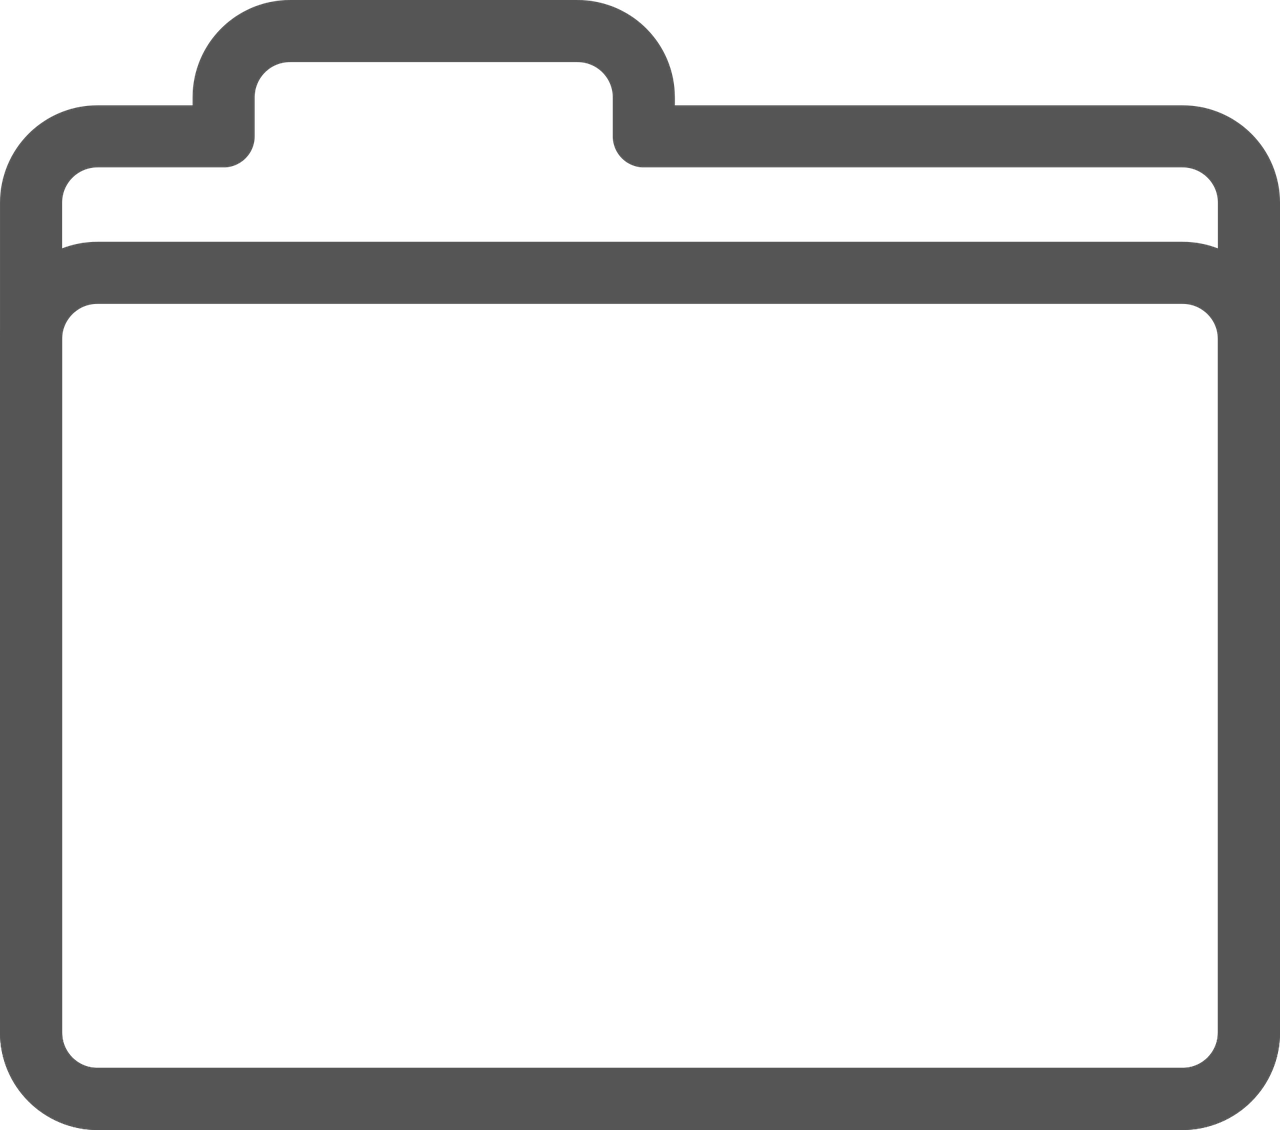
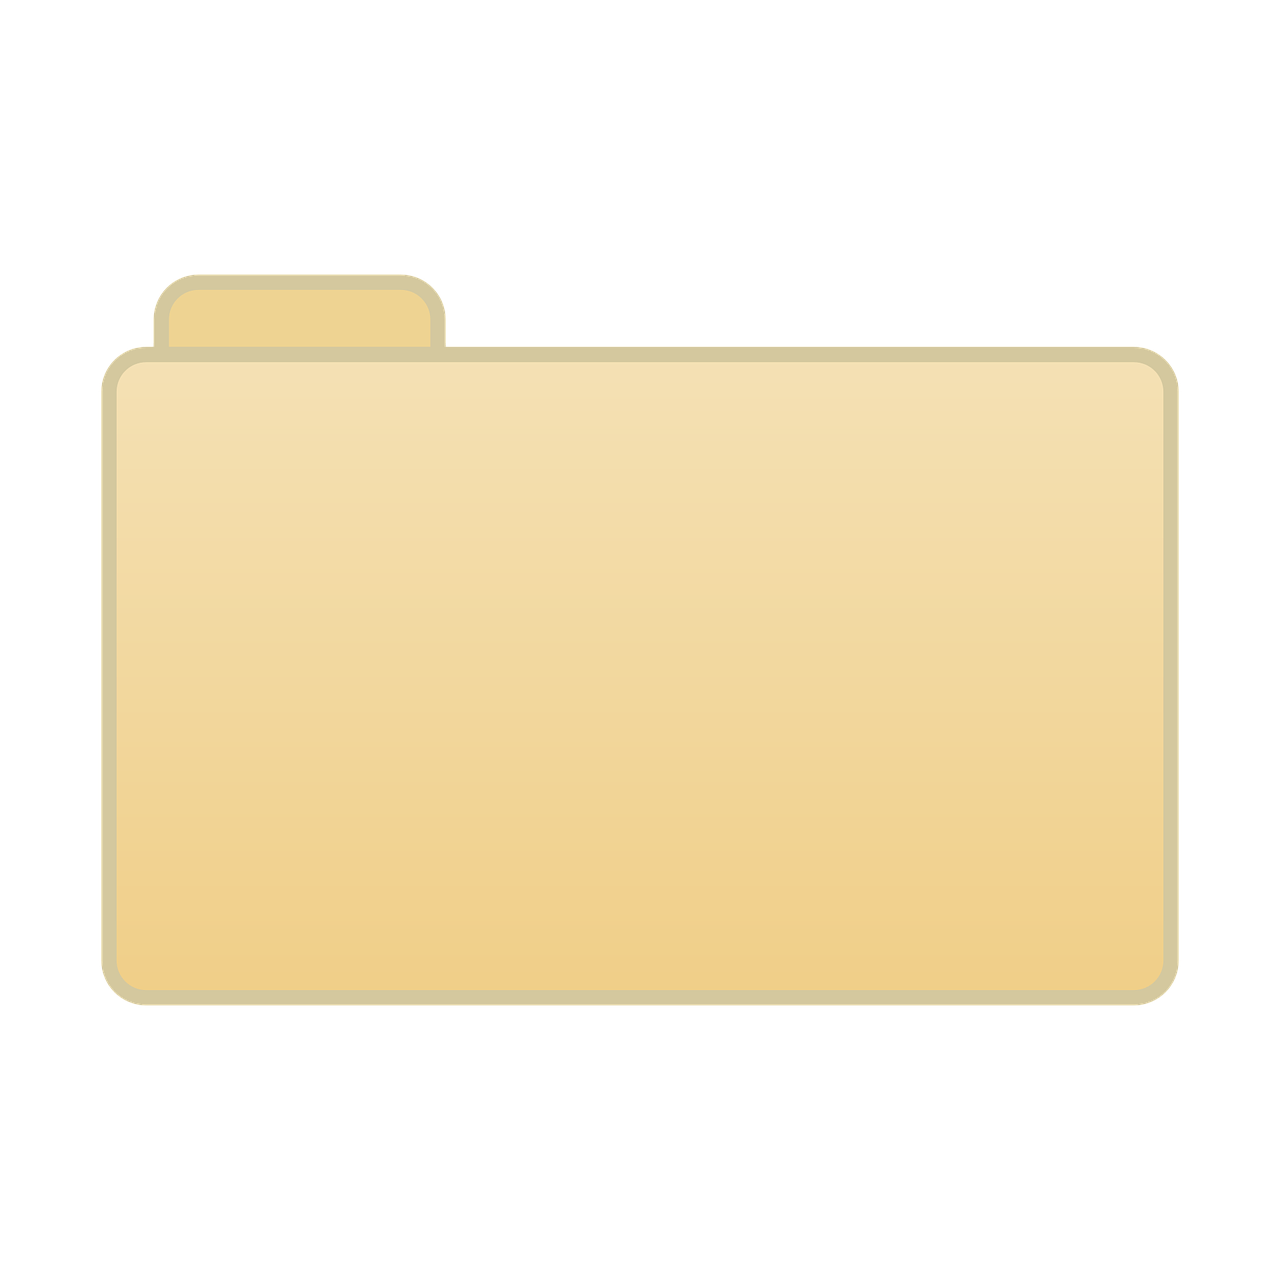
Added folder crum path in media create view and updateded style + update folder image

diff --git a/pub/assets/css/media.css b/pub/assets/css/media.css
@@ -41,14 +41,13 @@
     margin-top: 10px;
 }
 .filesContainer {
-    height: 75vh;
+    height: 80vh;
     overflow-y: auto;
     background: #fff;
-    padding: 20px;
+    padding: 10px;
     border: 1px solid #c6c6c6;
-    margin-bottom: 25px;
+    margin: 50px;
     position: relative;
-    margin-top: 50px;
 }
 .fileContainer {
     list-style: none;
@@ -76,14 +75,20 @@
     left: 50%;
     transform: translate(-50%, -50%);
     border-radius: 3px;
-    font-size: 18px;
+    font-size: 14px;
     color: #fff;
+    text-transform: uppercase;
+    text-overflow: ellipsis;
+    white-space: nowrap;
+    overflow: hidden;
+    width: 100%;
+    text-align: center;
 }
 .fileContainer .file {
-    width: 150px;
+    width: 100px;
     object-fit: cover;
     border: 1px solid #bdbdbd;
-    height: 150px;
+    height: 100px;
 }
 .fileContainer.show {
     position: absolute;
@@ -110,18 +115,29 @@
     width: 75% !important;
     height: 75% !important;
 }
+.fileContainer.folder:hover .folderText {
+    color: #004297;
+}
+.fileContainer.folder .folderText:hover {
+    color: #004297;
+}
 .fileContainer.folder img {
     object-fit: unset;
+    border: none;
 }
 .fileContainer.folder .folderText {
     position: absolute;
-    top: 50%;
-    left: 50%;
-    transform: translate(-50%, -50%);
-    color: #333;
+    bottom: 0;
+    left: 0;
+    color: #4f80c8;
     font-size: 14px;
-    text-transform: uppercase;
+    text-overflow: ellipsis;
+    white-space: nowrap;
+    overflow: hidden;
+    width: 100%;
+    text-align: center;
 }
+
 .fileInfoContainer {
     position: absolute;
     left: 50px;
@@ -169,16 +185,25 @@
     width: 100%;
     position: relative;
 }
+.crumPath {
+    position: absolute;
+    left: 50px;
+    top: 20px;
+}
+.folderPath {
+    color: #333;
+}
+.folderPath:hover {
+    color: #3d6eb5;
+}
+.separator {
+    margin: 0 10px;
+}
 #ranger {
     position: absolute;
     left: 50%;
-    top: -33px;
+    top: 15px;
     transform: translateX(-50%);
-}
-.folderBackText {
-    position: absolute;
-    top: 70px;
-    left: 66px;
 }
 /*
     Sidebar

diff --git a/pub/assets/css/style.css b/pub/assets/css/style.css
@@ -130,36 +130,47 @@ h3 {
 }
 .col12 {
     flex: 100%;
+    position: relative;
 }
 .col11 {
     flex: 95%;
+    position: relative;
 }
 .col10 {
     flex: 83.34%;
+    position: relative;
 }
 .col9 {
     flex: 75%;
+    position: relative;
 }
 .col8 {
     flex: 66.66%;
+    position: relative;
 }
 .col6 {
     flex: 50%;
+    position: relative;
 }
 .col4 {
     flex: 33.33%;
+    position: relative;
 }
 .col3 {
     flex: 25%;
+    position: relative;
 }
 .col2-4 {
     flex: 20%;
+    position: relative;
 }
 .col2 {
     flex: 16.66%;
+    position: relative;
 }
 .col1 {
     flex: 5%;
+    position: relative;
 }
 
 /*

diff --git a/pub/assets/css/sidebar.css b/pub/assets/css/sidebar.css
@@ -1,10 +1,10 @@
 #sidebar {
     position: absolute;
-    top: 0;
-    bottom: 0;
+    top: 0px;
+    bottom: -150px;
     right: 0;
     background: #0b192d;
-    width: 15%;
+    width: 100%;
     z-index: 9999;
     overflow: hidden;
 }

diff --git a/app/views/admin/media/create.php b/app/views/admin/media/create.php
@@ -20,31 +20,35 @@
  
         <div class="row">
             <div class="col10 col9-L">
-            <?php if(get('folder') !== 'website/assets') { ?>
-                <a href="?folder=<?php echo substr(get('folder'),0,strrpos(get('folder'),'/')); ?>">
-                    <span class="folderBackText">Back</span>
-                </a>
-            <?php } ?> 
+                <div class="crumPath">
+                    <?php if(!empty(get('folder'))) {
+
+                        $folderParts = explode('/', get('folder')); 
+                        unset($folderParts[0]);
+                        $link = implode('/', $folderParts);
+
+                        echo '<span>/</span>';
+                        echo '<span>website</span>';
+
+                        foreach($folderParts as $part) { 
+                            echo '<span class="separator">/</span>';
+                            echo '<a class="folderPath" href="?folder=website/' . substr(implode('/', $folderParts), 0, strpos(implode('/', $folderParts), $part)) . $part . '">' . $part . '</a>';
+                        } 
+                    } ?>
+                </div>
                 <div class="rangerContainer">
-                    <input type="range" min="125" max="500" value="150" id="ranger">
+                    <input type="range" min="50" max="500" value="100" id="ranger">
                 </div>
                 <div class="filesContainer">
-                    <div class="row">
+                    <div class="row flex-center">
                         <?php if(!empty($folders) && $folders !== null) { 
-
                             foreach($folders as $folder) { 
-
                                 if($folder !== 'website/assets/css' && $folder !== 'website/assets/js') {
-
                                     $folderParts = explode('/', $folder);
-
                                     unset($folderParts[0]);
                                     unset($folderParts[1]);
-
                                     $folderWithoutWebsiteAndAssets = implode('/', $folderParts);
-
                                     if(!empty($folderWithoutWebsiteAndAssets) && $folderWithoutWebsiteAndAssets !== null) {
-
                                         echo '<a href="?folder='.$folder.'">';
                                             echo '<div class="fileContainer folder">';
                                                 echo '<img class="file folder" src="/assets/img/folder.png"/>';
@@ -54,15 +58,10 @@
                                     } 
                                 } 
                             } 
-                        } 
-                        ?>
-
+                        } ?>
                         <?php if(!empty($files) && $files !== null) { ?>
-                            
                             <?php foreach($files as $file) { ?>
-
                                 <?php switch ($file['media_filetype']) {
-
                                         case 'image/png':
                                         case 'image/webp':
                                         case 'image/gif':
@@ -86,7 +85,6 @@
                                         break;
                                     }
                                 ?>
-                            
                                 <div class="fileInfoContainer display-none">
                                     <span class="">Title: </span>
                                     <p><?php echo $file['media_title']; ?></p>
@@ -116,15 +114,11 @@
                                     <?php } ?>
                                     <div class="layer"><span class="mediaTitle"><?php echo $file['media_filetype']; ?></span></div>
                                 </div>
-
-                            <?php } ?>
+                        <?php } ?>
+                        <?php } ?>
                     </div>
                 </div>
-                    <?php } else { ?>
-                        <span>No files found.</span>
-                    <?php } ?>
-                </div>
-           
+            </div>
             <div class="col2 col3-L">
                 <div id="sidebar" class="width-25-L">
                     <div class="sidebarContainer">
